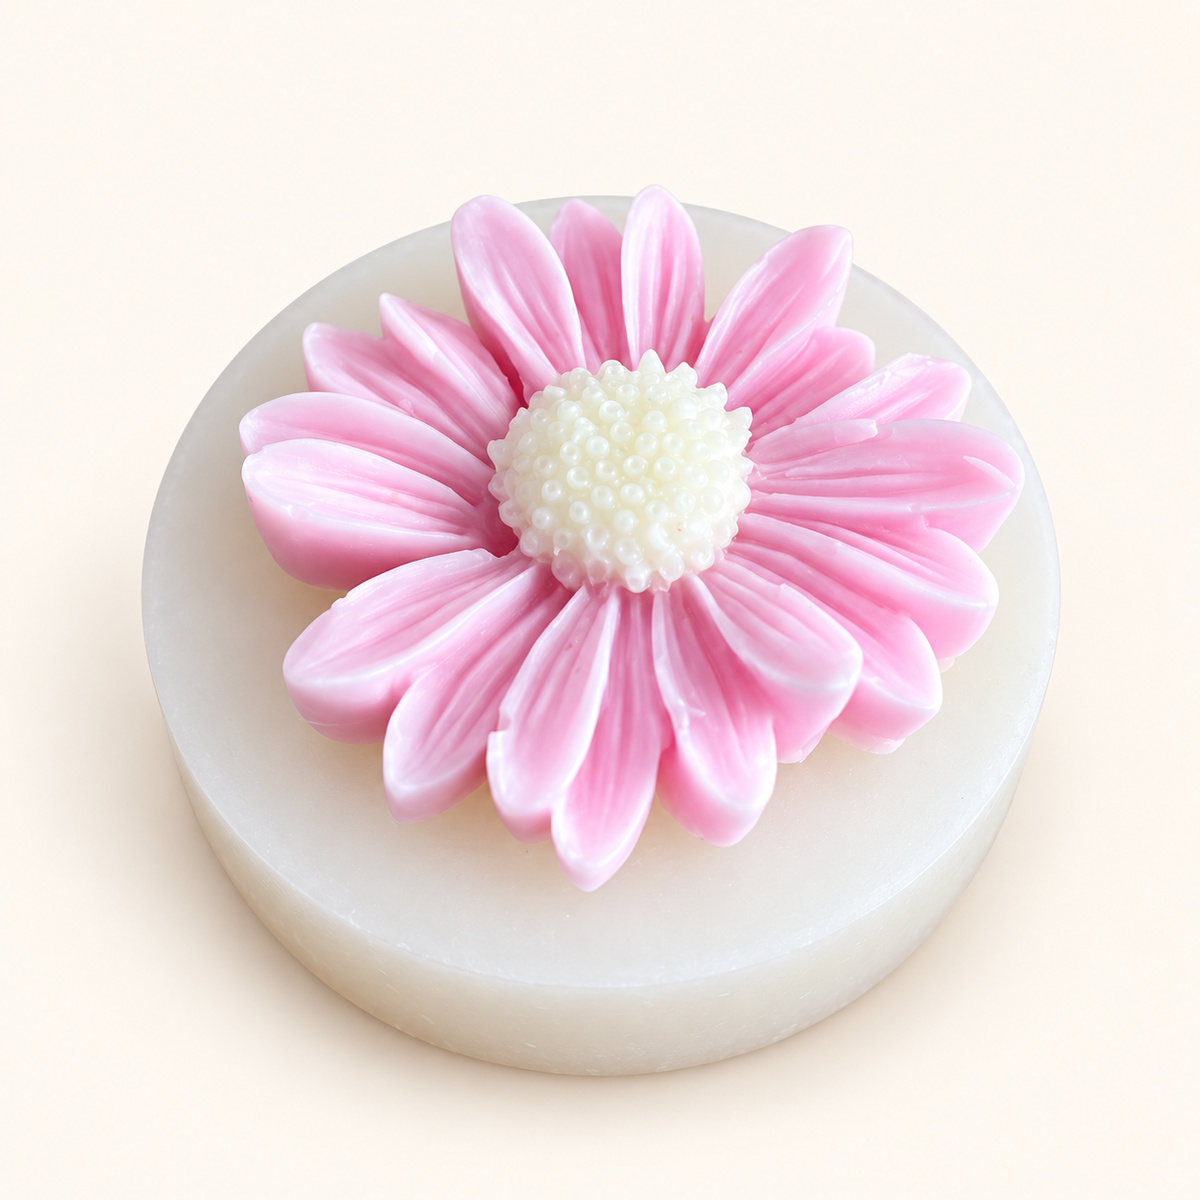
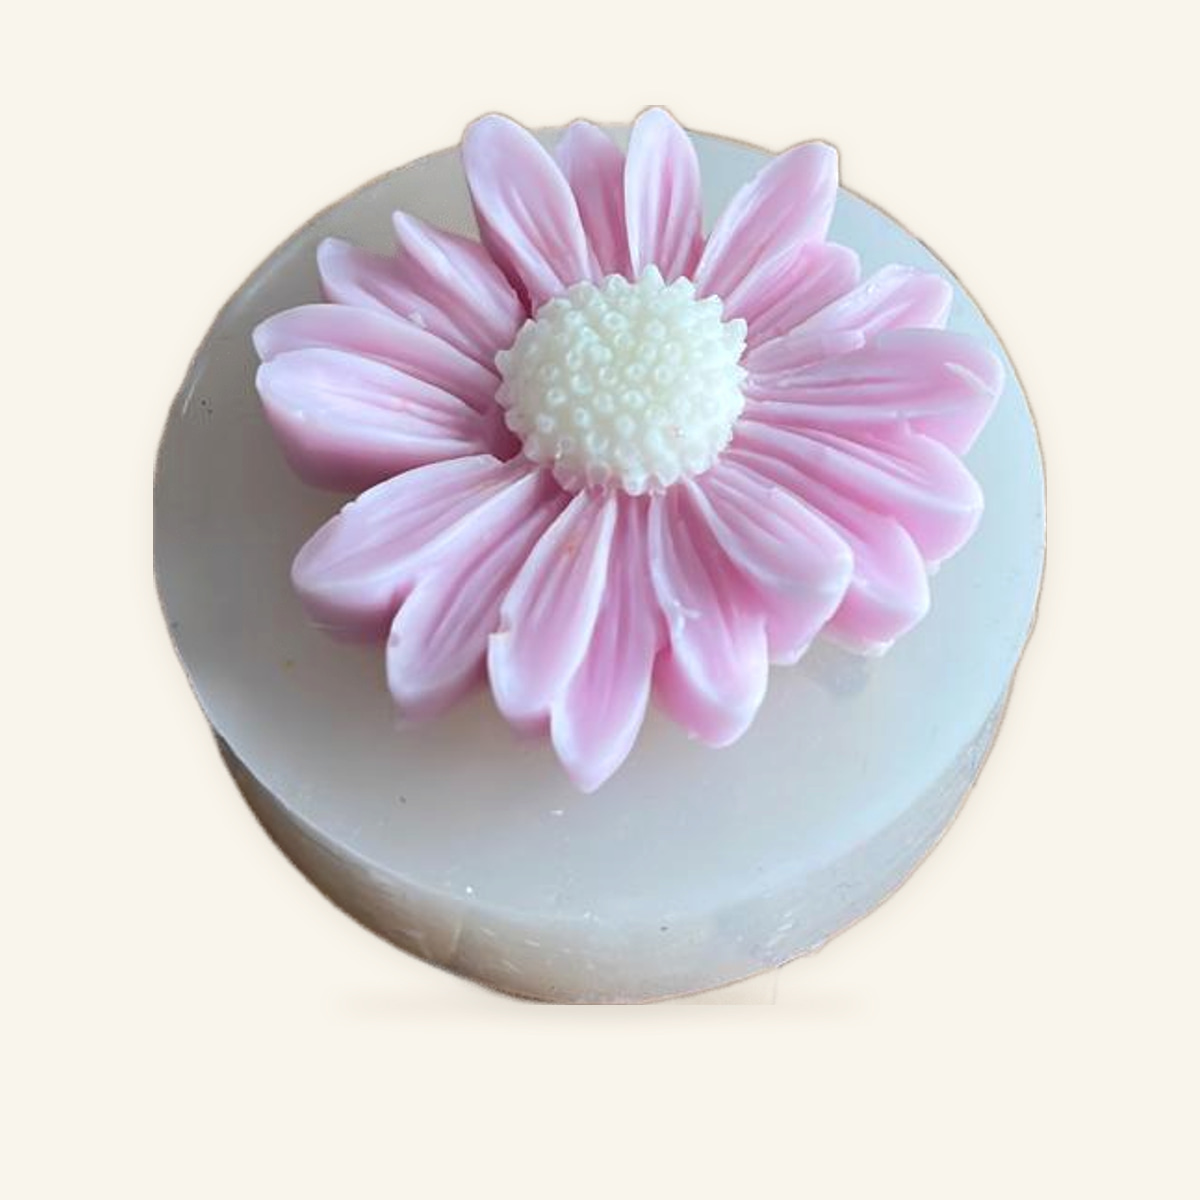
Use remastered product photos and add 11 new pieces to the gallery
Swaps 13 gallery photos for the remastered cutouts on a cream backdrop and adds ten new candles and a pair of leaf earrings. The pink daisy jar keeps its current photo until it is reshot.

Claude-Session: https://claude.ai/code/session_01TVcW5uLegu89MePmVZoL6u

diff --git a/index.html b/index.html
@@ -307,9 +307,9 @@ section.block { padding-block: 84px; }
       <!-- CANDLES: to add a candle, copy one <article> and point the <img> at a new photo in images/work/. -->
       <div class="category" id="candles">
         <h3 class="category-title">Candles</h3>
-        <div class="gallery three">
+        <div class="gallery">
           <article class="piece">
-            <figure><img src="images/work/candle-pink-daisy-pillar.jpg" alt="A white pillar candle topped with a pink wax daisy, on a wooden mat" width="1200" height="1200" loading="lazy"></figure>
+            <figure><img src="images/work/candle-pink-daisy-pillar.jpg" alt="A white pillar candle topped with a pink wax daisy" width="1200" height="1200" loading="lazy"></figure>
             <div class="meta">
               <h3>Pink daisy pillar</h3>
               <p class="notes">A white pillar candle with a pink wax daisy on top.</p>
@@ -344,10 +344,80 @@ section.block { padding-block: 84px; }
             </div>
           </article>
           <article class="piece">
-            <figure><img src="images/work/candle-daisy-wax-melts.jpg" alt="Two white daisy-shaped wax melts with purple centres, held in a hand" width="1200" height="1200" loading="lazy"></figure>
+            <figure><img src="images/work/candle-daisy-wax-melts.jpg" alt="Two white daisy-shaped wax melts with purple centres" width="1200" height="1200" loading="lazy"></figure>
             <div class="meta">
               <h3>Daisy wax melts</h3>
               <p class="notes">Little daisies for your wax warmer.</p>
+            </div>
+          </article>
+          <article class="piece">
+            <figure><img src="images/work/candle-holly-pillar.jpg" alt="A sage-green pillar candle decorated with wax holly leaves and red berries" width="1200" height="1200" loading="lazy"></figure>
+            <div class="meta">
+              <h3>Holly pillar</h3>
+              <p class="notes">A sage pillar with holly leaves and berries, for Christmas.</p>
+            </div>
+          </article>
+          <article class="piece">
+            <figure><img src="images/work/candle-pinecone.jpg" alt="An orange candle shaped like a pinecone" width="1200" height="1200" loading="lazy"></figure>
+            <div class="meta">
+              <h3>Pinecone candle</h3>
+              <p class="notes">A little orange candle shaped like a pinecone.</p>
+            </div>
+          </article>
+          <article class="piece">
+            <figure><img src="images/work/candle-rose-print-pillar.jpg" alt="A pale green pillar candle printed with red roses" width="1200" height="1200" loading="lazy"></figure>
+            <div class="meta">
+              <h3>Rose print pillar</h3>
+              <p class="notes">A pale pillar wrapped in red roses.</p>
+            </div>
+          </article>
+          <article class="piece">
+            <figure><img src="images/work/candle-blossom-print-pillars.jpg" alt="Two pillar candles printed with pink blossoms, standing on a teal tray" width="1200" height="1200" loading="lazy"></figure>
+            <div class="meta">
+              <h3>Blossom print pillars</h3>
+              <p class="notes">A tall and a short pillar with pink blossoms, on a teal tray.</p>
+            </div>
+          </article>
+          <article class="piece">
+            <figure><img src="images/work/candle-daisy-glass-bowl.jpg" alt="A white daisy candle in a ribbed glass bowl" width="1200" height="1200" loading="lazy"></figure>
+            <div class="meta">
+              <h3>Daisy glass bowl</h3>
+              <p class="notes">A white daisy floating in a ribbed glass bowl.</p>
+            </div>
+          </article>
+          <article class="piece">
+            <figure><img src="images/work/candle-flower-glass-bowls.jpg" alt="Three glass bowl candles with pink, blue and white wax flowers" width="1200" height="1200" loading="lazy"></figure>
+            <div class="meta">
+              <h3>Flower glass bowls</h3>
+              <p class="notes">Three glass bowls, each with its own flowers.</p>
+            </div>
+          </article>
+          <article class="piece">
+            <figure><img src="images/work/candle-mosaic-bowl.jpg" alt="A mosaic glass bowl candle with a yellow lotus flower and green wax succulents" width="1200" height="1200" loading="lazy"></figure>
+            <div class="meta">
+              <h3>Mosaic bowl</h3>
+              <p class="notes">A yellow lotus and green succulents in a mosaic glass bowl.</p>
+            </div>
+          </article>
+          <article class="piece">
+            <figure><img src="images/work/candle-jar-collection.jpg" alt="A group of jar and pillar candles with wax flowers and pressed petals" width="1200" height="1200" loading="lazy"></figure>
+            <div class="meta">
+              <h3>Jar and pillar collection</h3>
+              <p class="notes">Some of my jars and pillars, with flowers set into the wax.</p>
+            </div>
+          </article>
+          <article class="piece">
+            <figure><img src="images/work/candle-flower-trays.jpg" alt="Wax flower candles in a wooden paddle tray, an oval dish and small round bowls" width="1200" height="1200" loading="lazy"></figure>
+            <div class="meta">
+              <h3>Flower candle trays</h3>
+              <p class="notes">Wax flowers poured into wooden trays and little bowls.</p>
+            </div>
+          </article>
+          <article class="piece">
+            <figure><img src="images/work/candle-wax-sachets.jpg" alt="Scented wax sachets in round, star and rectangle shapes with dried flowers and hanging holes" width="1200" height="1200" loading="lazy"></figure>
+            <div class="meta">
+              <h3>Scented wax sachets</h3>
+              <p class="notes">Little wax shapes with dried flowers, to hang in a wardrobe or car.</p>
             </div>
           </article>
         </div>
@@ -355,23 +425,23 @@ section.block { padding-block: 84px; }
 
       <div class="category" id="crochet">
         <h3 class="category-title">Crochet</h3>
-      <div class="gallery">
+      <div class="gallery three">
         <article class="piece">
-          <figure><img src="images/work/earring-collection.jpg" alt="A selection of crocheted earrings laid out on a black board: hoops, fans, flowers and tasselled drops in pink, cream, green, blue and red" width="1200" height="1200" loading="lazy"></figure>
+          <figure><img src="images/work/earring-collection.jpg" alt="A selection of crocheted earrings: hoops, fans, flowers and tasselled drops in pink, cream, green, blue and red" width="1200" height="1200" loading="lazy"></figure>
           <div class="meta">
             <h3>Earring collection</h3>
             <p class="notes">Some of the earrings I've made. I can do lots of shapes and colours.</p>
           </div>
         </article>
         <article class="piece">
-          <figure><img src="images/work/blue-fan-earring.jpg" alt="A turquoise crocheted fan earring held up in a hand" width="1200" height="1200" loading="lazy"></figure>
+          <figure><img src="images/work/blue-fan-earring.jpg" alt="A turquoise crocheted fan earring" width="1200" height="1200" loading="lazy"></figure>
           <div class="meta">
             <h3>Turquoise fan earrings</h3>
             <p class="notes">A turquoise fan on a silver hook.</p>
           </div>
         </article>
         <article class="piece">
-          <figure><img src="images/work/ivory-flower-earrings.jpg" alt="An ivory crocheted rose earring with a pearl centre, held in a hand" width="1200" height="1200" loading="lazy"></figure>
+          <figure><img src="images/work/ivory-flower-earrings.jpg" alt="An ivory crocheted rose earring with a pearl centre" width="1200" height="1200" loading="lazy"></figure>
           <div class="meta">
             <h3>Ivory rose earrings</h3>
             <p class="notes">A little crochet rose with a pearl in the middle.</p>
@@ -385,7 +455,14 @@ section.block { padding-block: 84px; }
           </div>
         </article>
         <article class="piece">
-          <figure><img src="images/work/lilac-fan-earrings.jpg" alt="A pair of lilac crocheted fan earrings on a cream cloth" width="1200" height="1200" loading="lazy"></figure>
+          <figure><img src="images/work/leaf-earrings.jpg" alt="A pair of long crochet leaf earrings in cream and gold" width="1200" height="1200" loading="lazy"></figure>
+          <div class="meta">
+            <h3>Leaf earrings</h3>
+            <p class="notes">Long crochet leaves in cream and gold.</p>
+          </div>
+        </article>
+        <article class="piece">
+          <figure><img src="images/work/lilac-fan-earrings.jpg" alt="A pair of lilac crocheted fan earrings" width="1200" height="1200" loading="lazy"></figure>
           <div class="meta">
             <h3>Lilac fan earrings</h3>
             <p class="notes">Fan earrings in lilac.</p>
